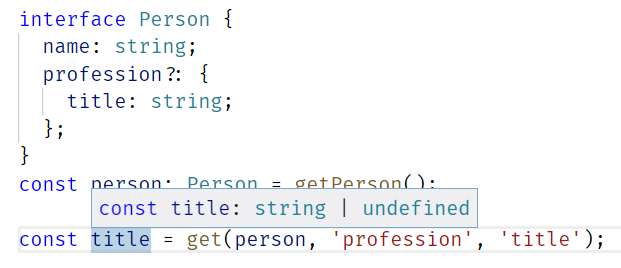
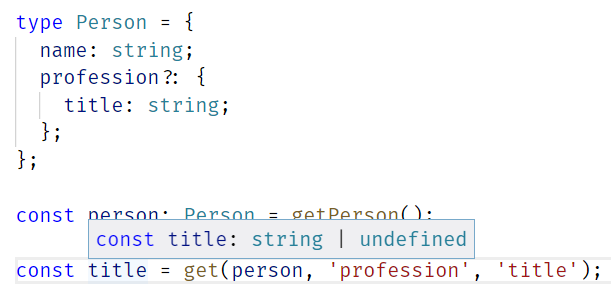
Use type literal in the inference example pic
Getting properties from interfaces doesn't even work with the Flow types
so the interface TS example might be a bit misleading. Use type literals
instead, they work in both.

diff --git a/tests/typings/testbed/ts-should-pass/get.ts b/tests/typings/testbed/ts-should-pass/get.ts
@@ -19,14 +19,17 @@ class InputClass {
 	a: number = 42;
 }
 const inputClass$a: undefined | number = get(new InputClass(), 'a');
+
+// For the README demo
 declare function getPerson(): Person;
 
-interface Person {
+type Person = {
 	name: string;
 	profession?: {
 		title: string;
 	};
-}
+};
+
 const person: Person = getPerson();
 
 const title = get(person, 'profession', 'title');
